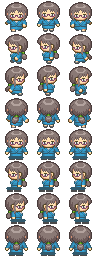
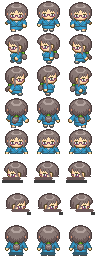
IMP: RPG batch 9 — quest UI, badges, sit sprites, panels
- GamePanel: translucent shell (bg-contrast/80), borderless scroll header icon,
  pixel type icons instead of emoji, compact row spacing
- icons: all 10 npc-*.png regenerated chip-free (?v=8), new armory glyph
- npcs sprites: sit rows 4-6 rebuilt for rilla/rowan/mallow/quill (fix_sit.py);
  bram/rilla costume recolors; changed sheets served with ?v=2
- FloatingWindow heightClass (shop h-[74vh], item grid max-h-[56vh] scroll);
  RpgDialog chat fixed at h-[60dvh]
- CLAUDE.md documents the above

Changed region(s): [[0.0, 0.5938, 0.3438, 0.875], [0.6875, 0.5938, 1.0, 0.875], [0.3438, 0.5938, 0.6562, 0.875]]

diff --git a/play/src/front/Components/GamePanel/GamePanel.svelte b/play/src/front/Components/GamePanel/GamePanel.svelte
@@ -52,12 +52,13 @@
         expanded = !expanded;
     }
 
+    // Pixel art matching the panel theme, not emoji.
     const TYPE_ICON: Record<string, string> = {
-        kill: "⚔",
-        visit: "🧭",
-        talk: "💬",
-        collect: "🎒",
-        timesheet: "⏳",
+        kill: "/static/images/items/item_sword.png",
+        visit: "resources/icons/npc-map.png",
+        talk: "resources/icons/npc-quill.png",
+        collect: "/static/images/items/item_bag.png",
+        timesheet: "resources/icons/npc-scroll.png",
     };
 
     function rewardLine(quest: QuestView): string | null {
@@ -76,17 +77,14 @@
 
 <div
     data-testid="game-panel"
-    class="pointer-events-auto fixed right-3 top-24 z-[250] w-[248px] max-w-[86vw] rounded-md border border-white/15 bg-contrast/95 text-white shadow-[0_0_0_1px_rgba(0,0,0,.45),0_10px_30px_rgba(0,0,0,.5)] backdrop-blur-md"
+    class="pointer-events-auto fixed right-3 top-24 z-[250] w-[248px] max-w-[86vw] rounded-md border border-white/15 bg-contrast/80 text-white shadow-[0_0_0_1px_rgba(0,0,0,.45),0_10px_30px_rgba(0,0,0,.5)] backdrop-blur"
 >
     <header
-        class="flex items-center gap-2 bg-black/25 px-2 py-1 {expanded
+        class="flex items-center gap-1.5 bg-black/25 px-2 py-1 {expanded
             ? 'rounded-t-md border-b border-white/10'
             : 'rounded-md'}"
     >
-        <span
-            class="flex h-7 w-7 items-center justify-center rounded border border-pop-yellow/50 bg-black/40 text-pop-yellow"
-            aria-hidden="true"
-        >
+        <span class="flex items-center" aria-hidden="true">
             <!-- Icon markup comes from the fixed npcRoleIcons table, never from user input. -->
             {@html npcRoleIconHtml("scroll", 16)}<!-- eslint-disable-line svelte/no-at-html-tags -->
         </span>
@@ -105,7 +103,7 @@
     </header>
 
     {#if expanded}
-        <div class="max-h-[45vh] space-y-1 overflow-y-auto p-1.5 no-scroll-bar">
+        <div class="max-h-[45vh] space-y-0.5 overflow-y-auto p-1 no-scroll-bar">
             {#if $questsStore.loading}
                 <p class="px-1 py-1.5 text-sm italic text-white/50">{$LL.gamePanel.loading()}</p>
             {:else if $questsStore.error}
@@ -117,15 +115,20 @@
                     {@const pct = Math.min(100, (quest.progress / Math.max(1, quest.count)) * 100)}
                     {@const done = quest.status === "completed"}
                     <div
-                        class="rounded border px-2 py-1.5 {done
+                        class="rounded border px-1.5 py-1 {done
                             ? 'border-emerald-400/50 bg-emerald-400/10 shadow-[0_0_10px_rgba(52,211,153,.15)]'
                             : 'border-white/10 bg-white/5'}"
                     >
                         <div class="flex items-start gap-1.5">
-                            <span class="mt-px text-sm leading-none" aria-hidden="true"
-                                >{TYPE_ICON[quest.type] ?? "•"}</span
-                            >
-                            <span class="flex-1 text-sm font-medium leading-snug">{quest.title}</span>
+                            {#if TYPE_ICON[quest.type]}
+                                <img
+                                    src={TYPE_ICON[quest.type]}
+                                    alt=""
+                                    class="mt-px h-3.5 w-3.5 shrink-0 [image-rendering:pixelated]"
+                                    aria-hidden="true"
+                                />
+                            {/if}
+                            <span class="flex-1 text-[13px] font-medium leading-snug">{quest.title}</span>
                             {#if done}
                                 <button
                                     type="button"
@@ -141,20 +144,20 @@
                             {/if}
                         </div>
                         {#if rewardLine(quest)}
-                            <p class="mt-1 pl-5 text-xs text-pop-yellow/80">{rewardLine(quest)}</p>
+                            <p class="mt-0.5 pl-4 text-[11px] text-pop-yellow/80">{rewardLine(quest)}</p>
                         {/if}
                         {#if !done}
-                            <div class="mt-1.5 flex items-center gap-1.5 pl-5">
-                                <div class="h-1.5 flex-1 overflow-hidden rounded-full bg-white/10">
+                            <div class="mt-0.5 flex items-center gap-1.5 pl-4">
+                                <div class="h-1 flex-1 overflow-hidden rounded-full bg-white/10">
                                     <div
                                         class="h-full rounded-full bg-gradient-to-r from-primary to-pop-yellow transition-all"
                                         style="width: {pct}%"
                                     ></div>
                                 </div>
-                                <span class="font-mono text-[11px] text-white/50">{Math.round(pct)}%</span>
+                                <span class="font-mono text-[10px] text-white/50">{Math.round(pct)}%</span>
                             </div>
                         {/if}
-                        <div class="mt-1 flex gap-1 pl-5">
+                        <div class="mt-0.5 flex gap-1 pl-4">
                             <span
                                 class="rounded px-1 py-px text-[10px] uppercase tracking-wide {quest.repeat === 'daily'
                                     ? 'bg-sky-500/20 text-sky-300'

diff --git a/play/src/front/Components/GameWindow/FloatingWindow.svelte b/play/src/front/Components/GameWindow/FloatingWindow.svelte
@@ -8,9 +8,11 @@
         onClose: () => void;
         testid: string;
         widthClass?: string;
+        /** Fixed panel height for windows whose panes scroll internally (shop). */
+        heightClass?: string;
     }
 
-    let { title, headerExtra, children, onClose, testid, widthClass = "w-[360px]" }: Props = $props();
+    let { title, headerExtra, children, onClose, testid, widthClass = "w-[360px]", heightClass = "" }: Props = $props();
 
     function onKeyDown(event: KeyboardEvent) {
         if (event.key === "Escape") onClose();
@@ -24,7 +26,7 @@
     data-testid={testid}
 >
     <div
-        class="flex max-h-[82vh] {widthClass} max-w-[94vw] flex-col rounded-md border border-white/15 bg-contrast/95 shadow-[0_0_0_1px_rgba(0,0,0,.45),0_18px_50px_rgba(0,0,0,.55)] backdrop-blur-md"
+        class="flex {heightClass} max-h-[82vh] {widthClass} max-w-[94vw] flex-col rounded-md border border-white/15 bg-contrast/95 shadow-[0_0_0_1px_rgba(0,0,0,.45),0_18px_50px_rgba(0,0,0,.55)] backdrop-blur-md"
         role="dialog"
         aria-modal="true"
         aria-label={title}

diff --git a/play/src/front/Components/NpcChat/ShopPanel.svelte b/play/src/front/Components/NpcChat/ShopPanel.svelte
@@ -214,7 +214,13 @@
 </script>
 
 {#if $shopStore.npc}
-    <FloatingWindow title={$shopStore.npc.name} onClose={closeShop} testid="shop-panel" widthClass="w-[460px]">
+    <FloatingWindow
+        title={$shopStore.npc.name}
+        onClose={closeShop}
+        testid="shop-panel"
+        widthClass="w-[460px]"
+        heightClass="h-[74vh]"
+    >
         {#snippet headerExtra()}
             <span
                 class="rounded border border-pop-yellow/40 bg-black/40 px-2 py-0.5 font-mono text-xs text-pop-yellow"
@@ -239,7 +245,7 @@
             <div class="flex items-start gap-2">
                 <!-- Left: item slots -->
                 <div class="w-[40%] rounded-md border-2 border-[#5a4020] bg-[#6b4a2b] p-1.5">
-                    <div class="grid grid-cols-3 gap-1.5">
+                    <div class="grid max-h-[56vh] grid-cols-3 gap-1.5 overflow-y-auto">
                         {#each slots as slot (slot.id + (slot.owned ? "-own" : "-cat"))}
                             <button
                                 type="button"

diff --git a/play/src/front/Phaser/Components/npcRoleIcons.ts b/play/src/front/Phaser/Components/npcRoleIcons.ts
@@ -1,10 +1,10 @@
-const ICONS = new Set(["scroll", "leaf", "quill", "map", "anvil", "flask", "coin", "rune", "star"]);
+const ICONS = new Set(["scroll", "leaf", "quill", "map", "anvil", "flask", "coin", "rune", "star", "armory"]);
 
-/** Inline HTML for the badge role icon: a themed-color PNG at resources/icons. */
+/** Inline HTML for the badge role icon: a chip-free themed glyph at resources/icons. */
 export function npcRoleIconHtml(icon: string, size = 12): string {
     const name = ICONS.has(icon) ? icon : "star";
     return (
-        `<img src="resources/icons/npc-${name}.png?v=7" alt="" ` +
+        `<img src="resources/icons/npc-${name}.png?v=8" alt="" ` +
         `style="display:inline-block;max-width:none;flex:none;width:calc(${size}px * var(--username-dom-scale, 1));height:calc(${size}px * var(--username-dom-scale, 1))" draggable="false" />`
     );
 }

diff --git a/play/src/front/Components/NpcChat/RpgDialog.svelte b/play/src/front/Components/NpcChat/RpgDialog.svelte
@@ -29,7 +29,7 @@
         role="dialog"
         aria-modal="true"
         aria-label={title}
-        class="flex max-h-[60dvh] min-h-[360px] w-[640px] max-w-[94vw] flex-col overflow-hidden rounded-md border border-white/15 bg-contrast/95 shadow-[0_0_0_1px_rgba(0,0,0,.4),0_18px_50px_rgba(0,0,0,.55)] backdrop-blur-md"
+        class="flex h-[60dvh] min-h-[360px] w-[640px] max-w-[94vw] flex-col overflow-hidden rounded-md border border-white/15 bg-contrast/95 shadow-[0_0_0_1px_rgba(0,0,0,.4),0_18px_50px_rgba(0,0,0,.55)] backdrop-blur-md"
     >
         <header class="flex items-center gap-2 border-b border-white/10 bg-black/25 px-3 py-2">
             <span

diff --git a/play/CLAUDE.md b/play/CLAUDE.md
@@ -83,9 +83,14 @@ Do not edit generated `src/i18n/i18n-*.ts` files directly.
   replaced by a 16px role icon (`Phaser/Components/npcRoleIcons.ts` — themed-color PNGs at
   `public/resources/icons/npc-<name>.png`, rendered as a plain `<img>`; each icon carries its
   own palette, e.g. gold scroll, green leaf, teal flask). The glyphs are game-icons.net
-  artwork (github.com/game-icons/icons, CC BY 3.0) tinted onto a dark chip, 64×64. NPCs stand still — the middle
+  artwork (github.com/game-icons/icons, CC BY 3.0) tinted per icon onto full transparency
+  (no chip or border — `?v=8`, generated by `tmp/wa-npc-reloc/compose_icons_flat.py`).
+  NPC sprite sheets carry sit rows 4-7 that were rebuilt from the standing rows by
+  `tmp/wa-npc-reloc/fix_sit.py` (front sit ends at the hip, side sits stretch the legs);
+  sheets whose art changed are served with `?v=2` because play's static files use
+  `max-age=86400`. NPCs stand still — the middle
   frame of their direction row, never mid-stride; `pose: "sit"` (from the game service)
-  selects the sit rows 4-7 that seated cast members' sheets carry — and `MonsterManager.loadTexture` reserves a unique
+  selects those sit rows — and `MonsterManager.loadTexture` reserves a unique
   key per URL load (a shared key once made every NPC render the first sprite). Badge icons
   size with `calc(px * var(--username-dom-scale, 1))` so they track zoom like the status dot. Clicking one walks the player
   to an adjacent tile (`GameScene.onNpcClicked`) and opens `NpcChat/NpcChatPanel.svelte` on
@@ -96,7 +101,7 @@ Do not edit generated `src/i18n/i18n-*.ts` files directly.
   The chat panel is a centered modal built on `NpcChat/RpgDialog.svelte` (pixel-JRPG theme:
   navy frame, pop-yellow accents, dimmed backdrop; the player's own lines are parchment
   bubbles) — not a drawer, not a chat-sidebar tab; i18n keys live under `npcChat`. The modal
-  is `w-[640px]` capped at `60dvh` with a `360px` floor, focuses its input on open (an
+  is `w-[640px]` fixed at `60dvh` with a `360px` floor, focuses its input on open (an
   `$effect` keyed on the open NPC plus a 150ms refocus — the panel is inside an `{#if}`, so
   `onMount` fires at app start, and Phaser can steal focus while it mounts), streams
   deltas live, and renders assistant messages as sanitized markdown (`NpcChat/markdown.ts` —
@@ -105,7 +110,9 @@ Do not edit generated `src/i18n/i18n-*.ts` files directly.
   dimmed backdrop, same frame family as the chat modal). Esc closes every NPC panel —
   RpgDialog and FloatingWindow each bind their own `svelte:window` keydown handler.
 - Shop NPCs open `NpcChat/ShopPanel.svelte` as a wide `GameWindow/FloatingWindow` laid out
-  like a craft station (`Services/shop.ts` store): left parchment slot grid of pixel icons
+  like a craft station (`Services/shop.ts` store): the window is fixed at `h-[74vh]`
+  (FloatingWindow `heightClass`) and the left slot grid scrolls under `max-h-[56vh]` with a
+  native scrollbar once it outgrows that. Left parchment slot grid of pixel icons
   (`Inventory/items.ts` `iconUrl`), a static preview box in the middle that fills with the
   selected item's art, the per-shop station glyph + the primary action (BUY/SELL/REROLL/USE, green CREATE-style button), right DESCRIPTION
   parchment with stats as `◆` lines — Bram/Nell catalogs, Rilla sell-back, Moss reroll
@@ -126,11 +133,14 @@ Do not edit generated `src/i18n/i18n-*.ts` files directly.
   rendered by MainLayout directly and always visible — it has no close control, so there is
   no open/closed store and no action-bar entry. Collapsed it shows only the header bar
   (title + expand control); expanded it lists every quest as compact rows
-  (200px wide, 9px type, hairline progress bars; **Q** toggles; a 45s poll auto-expands
+  (200px wide, 13px titles, hairline progress bars, `p-1`/`px-1.5 py-1` spacing; **Q** toggles;
+  a 45s poll auto-expands
   when a new assignmentId appears)
-  (`Services/quests.ts`, claim). Chrome matches the NPC panels
-  (navy frame; header carries the npc-role `scroll` icon in the same bordered `h-7 w-7`
-  yellow chip RpgDialog uses, plus a mono uppercase pop-yellow title) with purple→gold
+  (`Services/quests.ts`, claim). The shell is translucent like the top bar
+  (`bg-contrast/80 backdrop-blur`); the header carries the borderless npc-role `scroll`
+  glyph plus a mono uppercase pop-yellow title, and each row's type marker is pixel art
+  (kill `item_sword`, visit `npc-map`, talk `npc-quill`, collect `item_bag`, timesheet
+  `npc-scroll`) rather than an emoji, with purple→gold
   gradient progress bars, gold CLAIM
   buttons and an emerald tint on ready quests; Esc on an expanded tracker collapses it.
   Quest view only — the achievements UI was removed with the tab nav. Leaderboards are not
